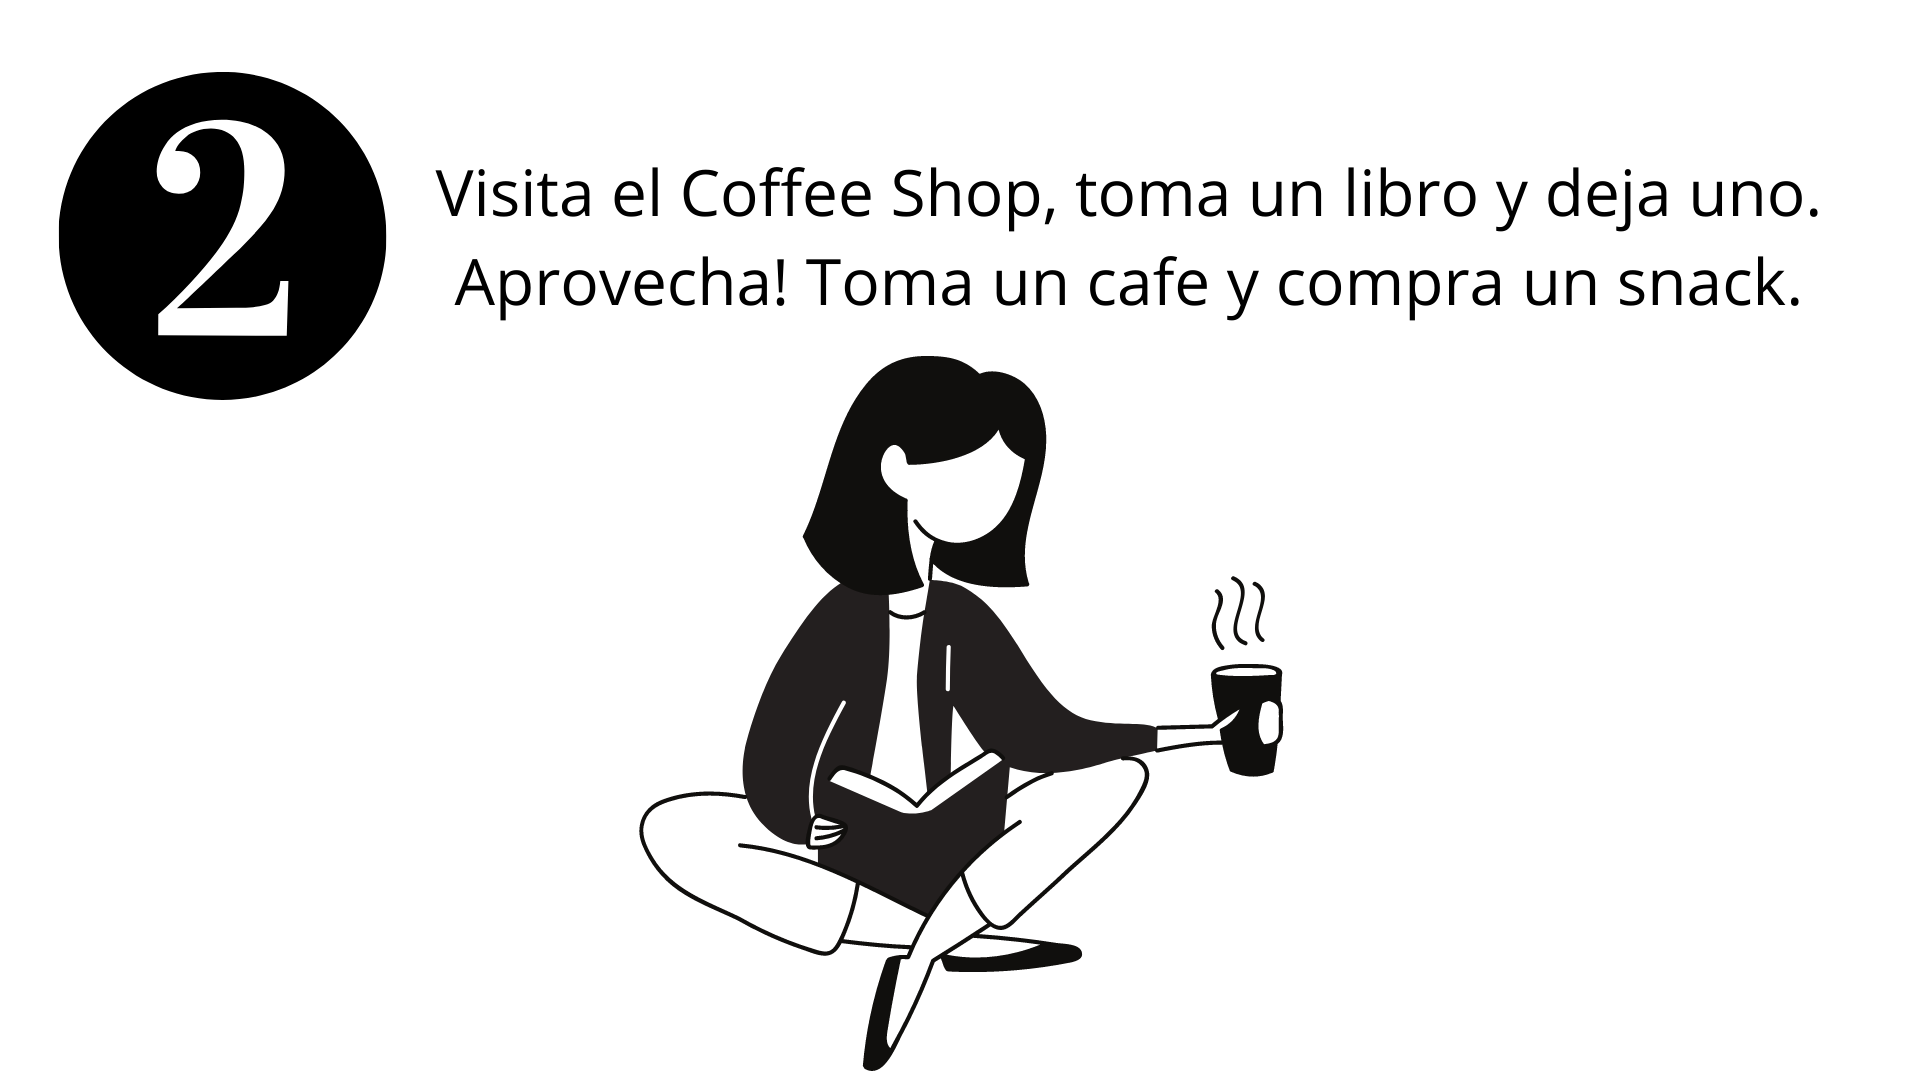
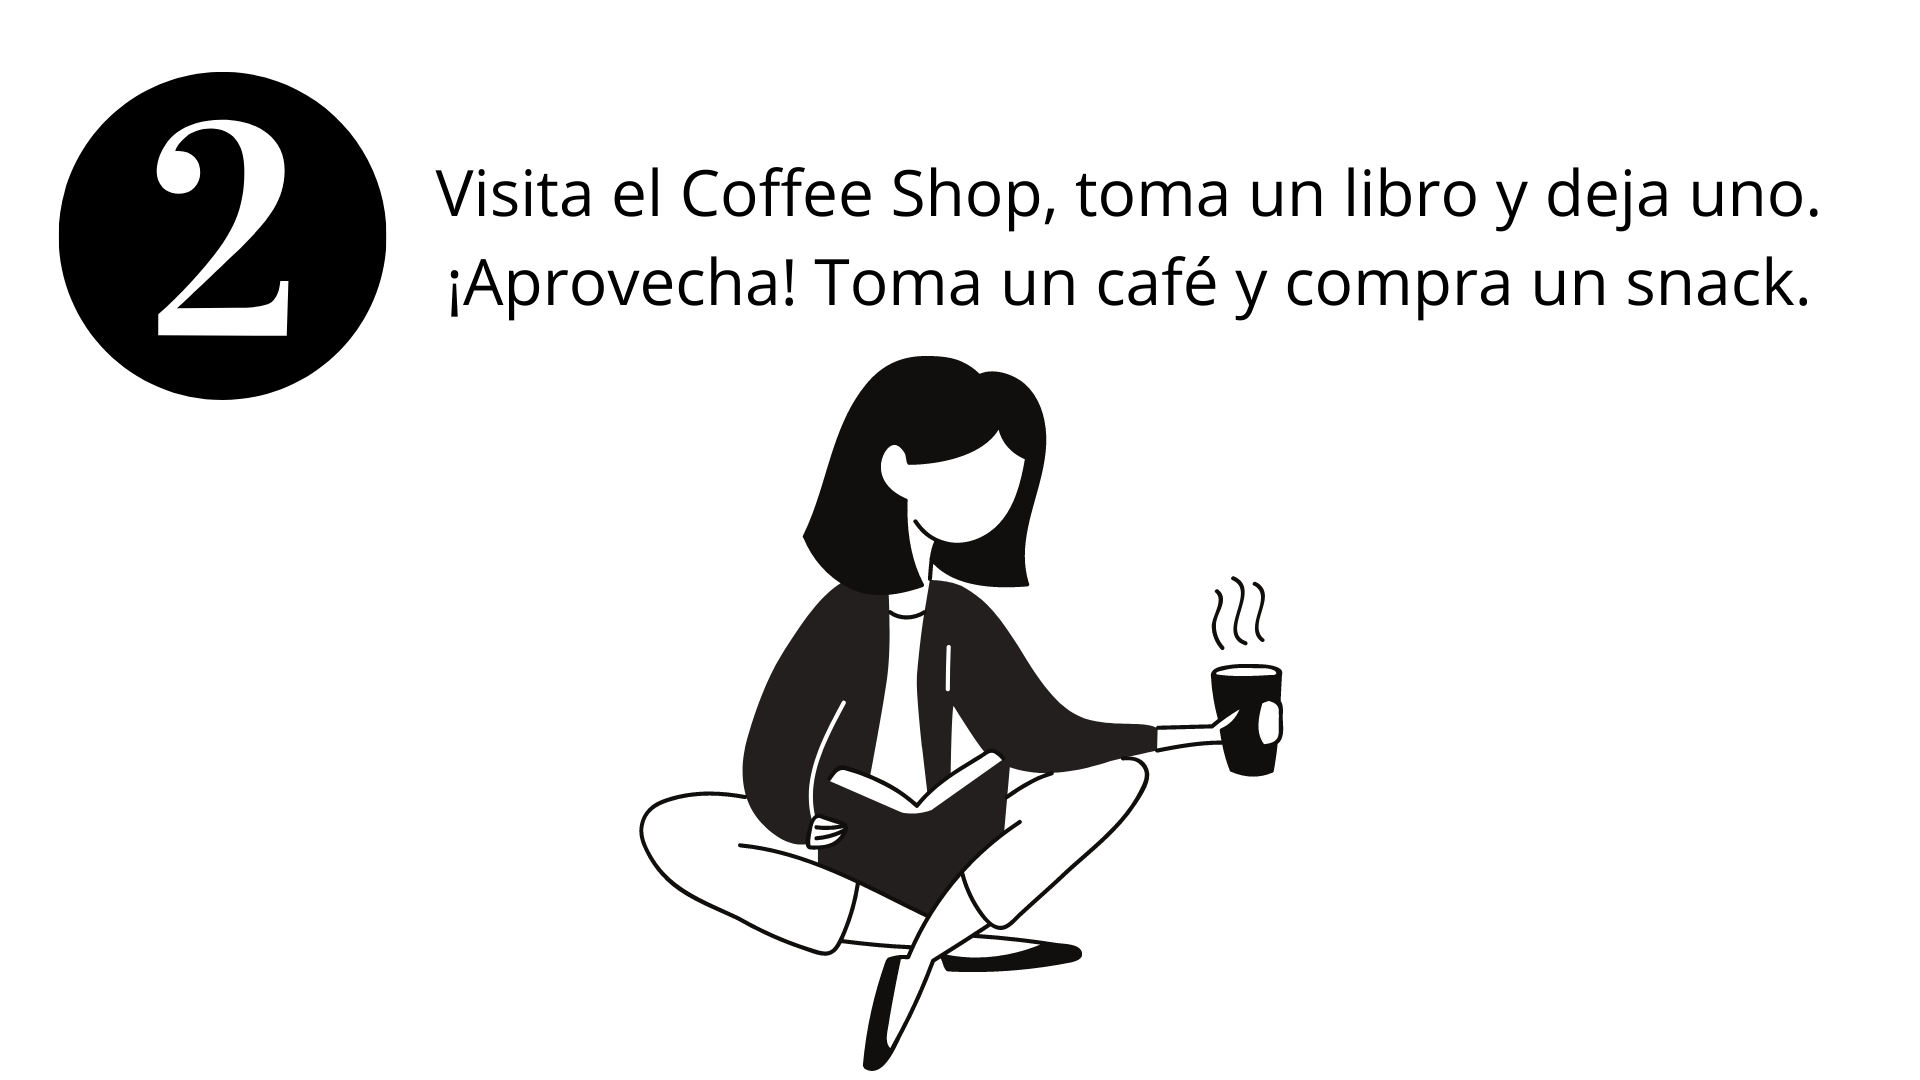
details

Changed region(s): [[0.2188, 0.2444, 0.9375, 0.3056]]

diff --git a/src/components/HomePage/HomePage.js b/src/components/HomePage/HomePage.js
@@ -69,7 +69,7 @@ const HomePage = () => {
                 <center><p style={{width:"90%"}}className="py-3">
                     Brindamos informaci&oacute;n sobre los mejores Coffee Shops de Puerto Rico. 
                     Hemos colaborado con algunos Coffee Shops para proveerle a nuestros 
-                    clientes libros de manera gratuita siguiendo la dinamica <b>"Deja uno, llevate uno!"</b>. 
+                    clientes libros de manera gratuita siguiendo la din&aacute;mica <b>"¡Deja uno, ll&eacute;vate uno!"</b>. 
                 </p></center>
             </Col>
         </Row>
@@ -106,7 +106,7 @@ const HomePage = () => {
                 <React.Fragment>
                     
                     <Alert style={{transition: "width 2s"}} variant='dark' onClose={() => setSuccess(false)} dismissible>
-                        Gracias por subscribirte a nuestro newsletter!
+                    ¡Gracias por subscribirte a nuestro newsletter!
                     </Alert>
                 </React.Fragment>
             }
@@ -119,7 +119,7 @@ const HomePage = () => {
                     placeholder="Email"
                     />
                     <InputGroup.Append>
-                    <Button onClick={handleStoring} variant="outline-dark">Subscribete</Button>
+                    <Button onClick={handleStoring} variant="outline-dark">Subscr&iacute;bete</Button>
                     </InputGroup.Append>
                 </InputGroup>
          

diff --git a/public/index.html b/public/index.html
@@ -3,7 +3,7 @@
 <html lang="en" class="h-100">
   <head>
     <meta charset="utf-8" />
-    <link rel="icon" href="%PUBLIC_URL%/static/favicon.ico" />
+    <link rel="icon" href="%PUBLIC_URL%/static/coffee_icon.ico" />
     <meta name="viewport" content="width=device-width, initial-scale=1" />
     <meta name="theme-color" content="#000000" />
     <meta
@@ -18,7 +18,7 @@
       crossorigin="anonymous"
     />
 
-    <link rel="apple-touch-icon" href="%PUBLIC_URL%/logo192.png" />
+    <link rel="apple-touch-icon" href="%PUBLIC_URL%/static/coffee192.png" />
     <!--
       manifest.json provides metadata used when your web app is installed on a
       user's mobile device or desktop. See https://developers.google.com/web/fundamentals/web-app-manifest/
@@ -33,7 +33,7 @@
       work correctly both with client-side routing and a non-root public URL.
       Learn how to configure a non-root public URL by running `npm run build`.
     -->
-    <title>Coffee Shops PR</title>
+    <title>DE LA ISLA</title>
   </head>
   <body class="h-100">
     <noscript>You need to enable JavaScript to run this app.</noscript>

diff --git a/src/components/Navigation/Navigation.js b/src/components/Navigation/Navigation.js
@@ -4,7 +4,7 @@ import { Navbar, Nav} from 'react-bootstrap';
 const Navigation = () => {
     return ( 
         <Navbar fixed="top" bg="dark" variant="dark" expand="sm">
-            <Navbar.Brand href="/">Coffee Shops PR</Navbar.Brand>
+            <Navbar.Brand href="/">DE LA ISLA</Navbar.Brand>
             <Navbar.Toggle aria-controls="basic-navbar-nav" />
             <Navbar.Collapse id="basic-navbar-nav">
                 <Nav className="mr-auto">

diff --git a/src/components/Books/BookDetails.js b/src/components/Books/BookDetails.js
@@ -56,7 +56,7 @@ class BookDetails extends Component{
                         {this.state.shop.name}
                         <br></br>
                         <br></br>
-                        <span><b>Direccion</b></span>
+                        <span><b>Direcci&oacute;n</b></span>
                         <br></br>
                         <span>{this.state.shop.address}</span>
                      

diff --git a/coffee_shops/settings.py b/coffee_shops/settings.py
@@ -12,7 +12,7 @@ https://docs.djangoproject.com/en/2.2/ref/settings/
 
 import os
 import django_heroku
-# Build paths inside the project like this: os.path.join(BASE_DIR, ...)
+# public paths inside the project like this: os.path.join(BASE_DIR, ...)
 BASE_DIR = os.path.dirname(os.path.dirname(os.path.abspath(__file__)))
 
 
@@ -70,7 +70,7 @@ ROOT_URLCONF = 'coffee_shops.urls'
 TEMPLATES = [
     {
         'BACKEND': 'django.template.backends.django.DjangoTemplates',
-        'DIRS': [os.path.join(BASE_DIR, 'build')],
+        'DIRS': [os.path.join(BASE_DIR, 'public')],
         'APP_DIRS': True,
         'OPTIONS': {
             'context_processors': [
@@ -157,7 +157,7 @@ DEFAULT_FILE_STORAGE = 'cloudinary_storage.storage.MediaCloudinaryStorage'
 django_heroku.settings(locals()) 
 
 STATIC_URL = '/static/'
-STATIC_ROOT = os.path.join(BASE_DIR, 'build', 'static')
+STATIC_ROOT = os.path.join(BASE_DIR, 'public', 'static')
 STATICFILES_DIRS = []
 
 MEDIA_ROOT = os.path.join(BASE_DIR, 'media_root')
